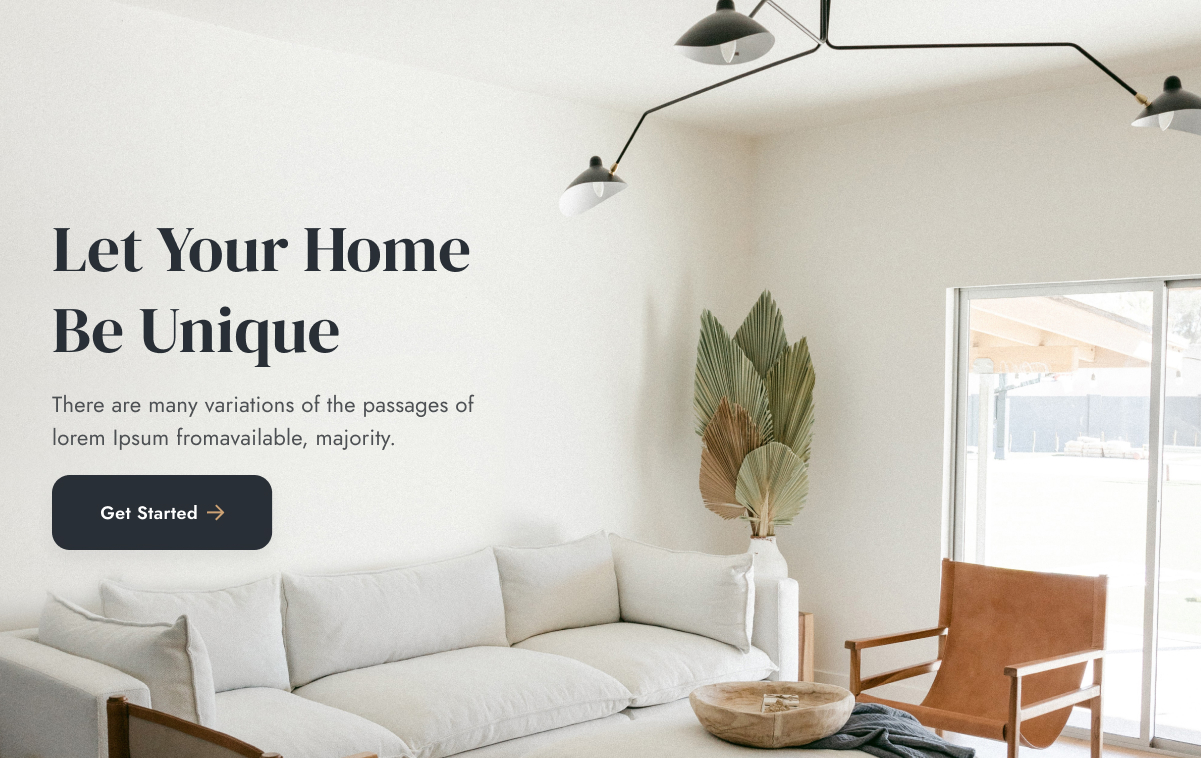
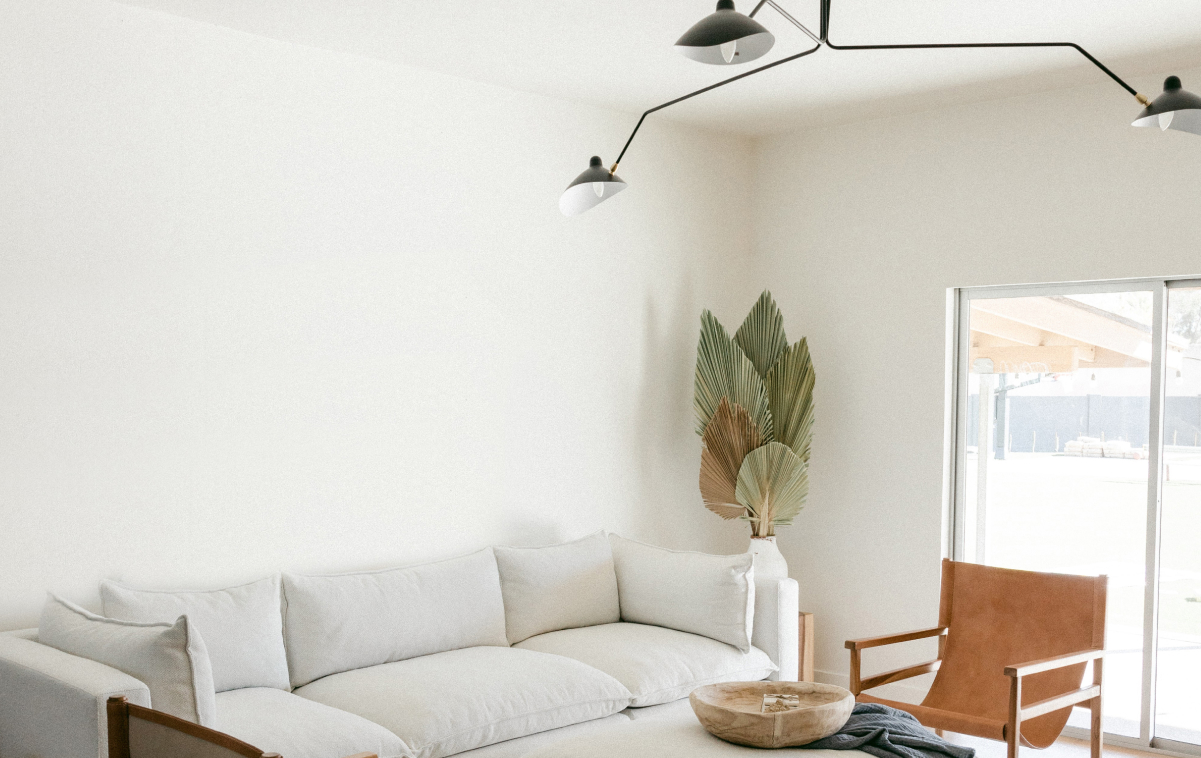
seventeen commit

Changed region(s): [[0.0308, 0.5158, 0.4005, 0.7282], [0.0308, 0.3034, 0.4005, 0.3641], [0.0308, 0.3945, 0.2773, 0.4855]]

diff --git a/index.html b/index.html
@@ -20,12 +20,12 @@
         </div>
         <div class="header__menu">
           <ul class="menubar__list">
-            <li class="menubar__item"><a class="menubar__link" href="#">Home</a></li>
-            <li class="menubar__item"><a class="menubar__link" href="#">Pages</a></li>
-            <li class="menubar__item"><a class="menubar__link" href="#">Services</a></li>
-            <li class="menubar__item"><a class="menubar__link" href="#">Project</a></li>
-            <li class="menubar__item"><a class="menubar__link" href="#">Blog</a></li>
-            <li class="menubar__item"><a class="menubar__link" href="#">Contact</a></li>
+            <li class="menubar__item"><a class="menubar__link" href="#!">Home</a></li>
+            <li class="menubar__item"><a class="menubar__link" href="#!">Pages</a></li>
+            <li class="menubar__item"><a class="menubar__link" href="#!">Services</a></li>
+            <li class="menubar__item"><a class="menubar__link" href="#!">Project</a></li>
+            <li class="menubar__item"><a class="menubar__link" href="#!">Blog</a></li>
+            <li class="menubar__item"><a class="menubar__link" href="#!">Contact</a></li>
             <li class="menubar__item"><img class="search-img" src="/img/loupe.svg" alt="loupe"></li>
           </ul>
         </div>
@@ -35,12 +35,14 @@
   <section class="banner">
     <div class="container-1200">
       <div class="banner__inner">
-        <h1 class="banner__title">Let Your Home<br>Be Unique</h1>
-        <p class="banner__subtitle">There are many variations of the passages of<br>lorem Ipsum fromavailable, majority.</p>
-        <a class="banner__button" href="#">
-          <p class="button-text--light">Get Started</p>
-          <img class="button-img" src="/img/action--light.svg" alt="arrow-action">
-        </a>
+        <div class="banner__info">
+          <h1 class="banner__title">Let Your Home<br>Be Unique</h1>
+          <p class="banner__subtitle">There are many variations of the passages of<br>lorem Ipsum fromavailable, majority.</p>
+          <a class="banner__button" href="#!">
+            <p class="button-text--light">Get Started</p>
+            <img class="button-img" src="/img/action--light.svg" alt="arrow-action">
+          </a>
+        </div>
       </div>
     </div>
   </section>
@@ -50,7 +52,7 @@
         <li class="stages__item">
           <div class="stages__title">Project Plan</div>
           <div class="stages__descr">There are many variations of the<br>passages of lorem Ipsum from<br>available, majority.</div>
-          <a class="stages__button" href="#">
+          <a class="stages__button" href="#!">
             <p class="button-text--dark">Read More</p>
             <img class="button-img" src="/img/action--light.svg" alt="arrow-action">
           </a>
@@ -58,7 +60,7 @@
         <li class="stages__item">
           <div class="stages__title">Interior Work</div>
           <div class="stages__descr">There are many variations of the<br>passages of lorem Ipsum from<br>available, majority.</div>
-          <a class="stages__button" href="#">
+          <a class="stages__button" href="#!">
             <p class="button-text--dark">Read More</p>
             <img class="button-img" src="/img/action--light.svg" alt="arrow-action">
           </a>
@@ -66,7 +68,7 @@
         <li class="stages__item">
           <div class="stages__title">Realization</div>
           <div class="stages__descr">There are many variations of the<br>passages of lorem Ipsum from<br>available, majority.</div>
-          <a class="stages__button" href="#">
+          <a class="stages__button" href="#!">
             <p class="button-text--dark">Read More</p>
             <img class="button-img" src="/img/action--light.svg" alt="arrow-action">
           </a>
@@ -86,7 +88,7 @@
               <p class="call-number">012345678</p>
               <p class="call-text">Call Us Anytime</p>
             </div>
-            <a class="art__button" href="#">
+            <a class="art__button" href="#!">
               <p class="art__button-text art__button-text--light">Get Free Estimate</p>
               <img class="button-img" src="/img/action--light.svg" alt="arrow-action">
             </a>
@@ -157,7 +159,7 @@
             <div class="project__text">
               <p class="project__name">Modern Kitchan</p>
               <p class="project__category">Decor / Artchitecture</p>
-              <a class="project__button" href="#" ><img class="button__action" src="/img/arrow-right--dark.svg" alt="arrow-right"></a>
+              <a class="project__button" href="#!" ><img class="button__action" src="/img/arrow-right--dark.svg" alt="arrow-right"></a>
             </div>
           </li>
           <li class="projects__item">
@@ -165,7 +167,7 @@
             <div class="project__text">
               <p class="project__name">Modern Kitchan</p>
               <p class="project__category">Decor / Artchitecture</p>
-              <a class="project__button" href="#" ><img class="button__action" src="/img/arrow-right--dark.svg" alt="arrow-right"></a>
+              <a class="project__button" href="#!" ><img class="button__action" src="/img/arrow-right--dark.svg" alt="arrow-right"></a>
             </div>
           </li>
           <li class="projects__item">
@@ -173,7 +175,7 @@
             <div class="project__text">
               <p class="project__name">Modern Kitchan</p>
               <p class="project__category">Decor / Artchitecture</p>
-              <a class="project__button" href="#" ><img class="button__action" src="/img/arrow-right--dark.svg" alt="arrow-right"></a>
+              <a class="project__button" href="#!" ><img class="button__action" src="/img/arrow-right--dark.svg" alt="arrow-right"></a>
             </div>
           </li>
           <li class="projects__item">
@@ -181,7 +183,7 @@
             <div class="project__text">
               <p class="project__name">Modern Kitchan</p>
               <p class="project__category">Decor / Artchitecture</p>
-              <a class="project__button" href="#" ><img class="button__action" src="/img/arrow-right--dark.svg" alt="arrow-right"></a>
+              <a class="project__button" href="#!" ><img class="button__action" src="/img/arrow-right--dark.svg" alt="arrow-right"></a>
             </div>
           </li>
         </ul>
@@ -223,7 +225,7 @@
             <p class="news-card__title">Let’s Get Solution For<br>Building Construction<br>Work</p>
             <div class="news-card__subtitle">
               <p class="news-card__date">26 December,2022 </p>
-              <a href="#" class="news-card__button"><img src="/img/arrow-right--dark.svg" alt="arrow-right" class="button__action"></a>
+              <a href="#!" class="news-card__button"><img src="/img/arrow-right--dark.svg" alt="arrow-right" class="button__action"></a>
             </div>
           </li>
           <li class="news__item news__item-accent">
@@ -233,7 +235,7 @@
             <p class="news-card__title">Low Cost Latest Invented<br>Interior Designing<br>Ideas.</p>
             <div class="news-card__subtitle">
               <p class="news-card__date">22 December,2022 </p>
-              <a href="#" class="news-card__button news-card__button-accent"><img src="/img/arrow-right--dark.svg" alt="arrow-right" class="button__action"></a>
+              <a href="#!" class="news-card__button news-card__button-accent"><img src="/img/arrow-right--dark.svg" alt="arrow-right" class="button__action"></a>
             </div>
           </li>
           <li class="news__item">
@@ -243,7 +245,7 @@
             <p class="news-card__title">Best For Any Office &<br>Business Interior<br>Solution</p>
             <div class="news-card__subtitle">
               <p class="news-card__date">25 December,2022 </p>
-              <a href="#" class="news-card__button"><img src="/img/arrow-right--dark.svg" alt="arrow-right" class="button__action"></a>
+              <a href="#!" class="news-card__button"><img src="/img/arrow-right--dark.svg" alt="arrow-right" class="button__action"></a>
             </div>
           </li>
         </ul>
@@ -255,7 +257,7 @@
       <div class="join__inner">
         <h2 class="join__title"></h2>
         <p class="join__subtitle"></p>
-        <a href="#" class="join__button">
+        <a href="#!" class="join__button">
           <div class="button__text--light">Contact With Us</div>
           <img src="/img/action--dark.svg" alt="arrow-right" class="button__action-dark">
         </a>
@@ -273,38 +275,38 @@
             </div>
             <p class="interno__text">It is a long established fact that a reader<br>will be distracted lookings.</p>
             <ul class="soc__list">
-              <li class="soc__item"><a href="#"><img src="/img/fb.svg" alt="social-icon" class="soc__img"></a></li>
-              <li class="soc__item"><a href="#"><img src="/img/tw.svg" alt="social-icon" class="soc__img"></a></li>
-              <li class="soc__item"><a href="#"><img src="/img/in.svg" alt="social-icon" class="soc__img"></a></li>
-              <li class="soc__item"><a href="#"><img src="/img/inst.svg" alt="social-icon" class="soc__img"></a></li>
+              <li class="soc__item"><a href="#!"><img src="/img/fb.svg" alt="social-icon" class="soc__img"></a></li>
+              <li class="soc__item"><a href="#!"><img src="/img/tw.svg" alt="social-icon" class="soc__img"></a></li>
+              <li class="soc__item"><a href="#!"><img src="/img/in.svg" alt="social-icon" class="soc__img"></a></li>
+              <li class="soc__item"><a href="#!"><img src="/img/inst.svg" alt="social-icon" class="soc__img"></a></li>
             </ul>
           </div>
           <div class="footer__pages pages">
             <p class="pages__title">Pages</p>
             <ul class="pages__list">
-              <li class="pages__item"><a href="#">About Us</a></li>
-              <li class="pages__item"><a href="#">Our Projects</a></li>
-              <li class="pages__item"><a href="#">Our Team</a></li>
-              <li class="pages__item"><a href="#">Contact Us</a></li>
-              <li class="pages__item"><a href="#">Services</a></li>
+              <li class="pages__item"><a href="#!">About Us</a></li>
+              <li class="pages__item"><a href="#!">Our Projects</a></li>
+              <li class="pages__item"><a href="#!">Our Team</a></li>
+              <li class="pages__item"><a href="#!">Contact Us</a></li>
+              <li class="pages__item"><a href="#!">Services</a></li>
             </ul>
           </div>
           <div class="footer__services services">
             <p class="services__title">Services</p>
             <ul class="services__list">
-              <li class="services__item"><a href="#">Kitchen</a></li>
-              <li class="services__item"><a href="#">Living Area</a></li>
-              <li class="services__item"><a href="#">Bathroom</a></li>
-              <li class="services__item"><a href="#">Dinning Hall</a></li>
-              <li class="services__item"><a href="#">Bedroom</a></li>
+              <li class="services__item"><a href="#!">Kitchen</a></li>
+              <li class="services__item"><a href="#!">Living Area</a></li>
+              <li class="services__item"><a href="#!">Bathroom</a></li>
+              <li class="services__item"><a href="#!">Dinning Hall</a></li>
+              <li class="services__item"><a href="#!">Bedroom</a></li>
             </ul>
           </div>
           <div class="footer__contacts contacts">
             <p class="contacts__title">Contact</p>
             <ul class="contacts__list">
-              <li class="contacts__item"><a href="#">55 East Birchwood Ave.<br>Brooklyn, New York 11201</a></li>
-              <li class="contacts__item"><a href="#">contact@interno.com</a></li>
-              <li class="contacts__item"><a href="#">(123) 456 - 7890</a></li>
+              <li class="contacts__item"><a href="#!">55 East Birchwood Ave.<br>Brooklyn, New York 11201</a></li>
+              <li class="contacts__item"><a href="#!">contact@interno.com</a></li>
+              <li class="contacts__item"><a href="#!">(123) 456 - 7890</a></li>
             </ul>
           </div>
         </div>

diff --git a/styles/style.css b/styles/style.css
@@ -72,3 +72,68 @@ img {
   margin-right: 30px;
 }
 
+.banner__inner {
+  margin-bottom: 200px;
+  background: url(/img/main-banner.jpg);
+  height: 758px;
+  border-radius: 70px;
+}
+
+.banner__info {
+  padding: 208px 0 0 52px;
+}
+
+.banner__title {
+  margin-bottom: 18px;
+  font-family: 'DM Serif Display';
+  font-style: normal;
+  font-weight: 400;
+  font-size: 65px;
+  line-height: 125%;
+  display: flex;
+  align-items: center;
+  color: #292F36;
+  flex: none;
+  order: 0;
+  flex-grow: 0;
+}
+
+.banner__subtitle {
+  margin-bottom: 21px;
+  font-family: 'Jost';
+  font-style: normal;
+  font-weight: 400;
+  font-size: 22px;
+  line-height: 150%;
+  display: flex;
+  align-items: center;
+  letter-spacing: 0.01em;
+  color: #4D5053;
+  flex: none;
+  order: 1;
+  flex-grow: 0;
+}
+
+.banner__button {
+  display: inline-flex;
+  padding: 26px 48px;
+  border-radius: 18px;
+  background-color: #292F36;
+}
+
+.button-text--light{
+  margin-right: 10px;
+  font-family: 'Jost';
+  font-style: normal;
+  font-weight: 600;
+  font-size: 18px;
+  line-height: 125%;
+  display: flex;
+  align-items: center;
+  text-align: center;
+  letter-spacing: 0.02em;
+  color: #FFFFFF;
+  flex: none;
+  order: 0;
+  flex-grow: 0;
+}
